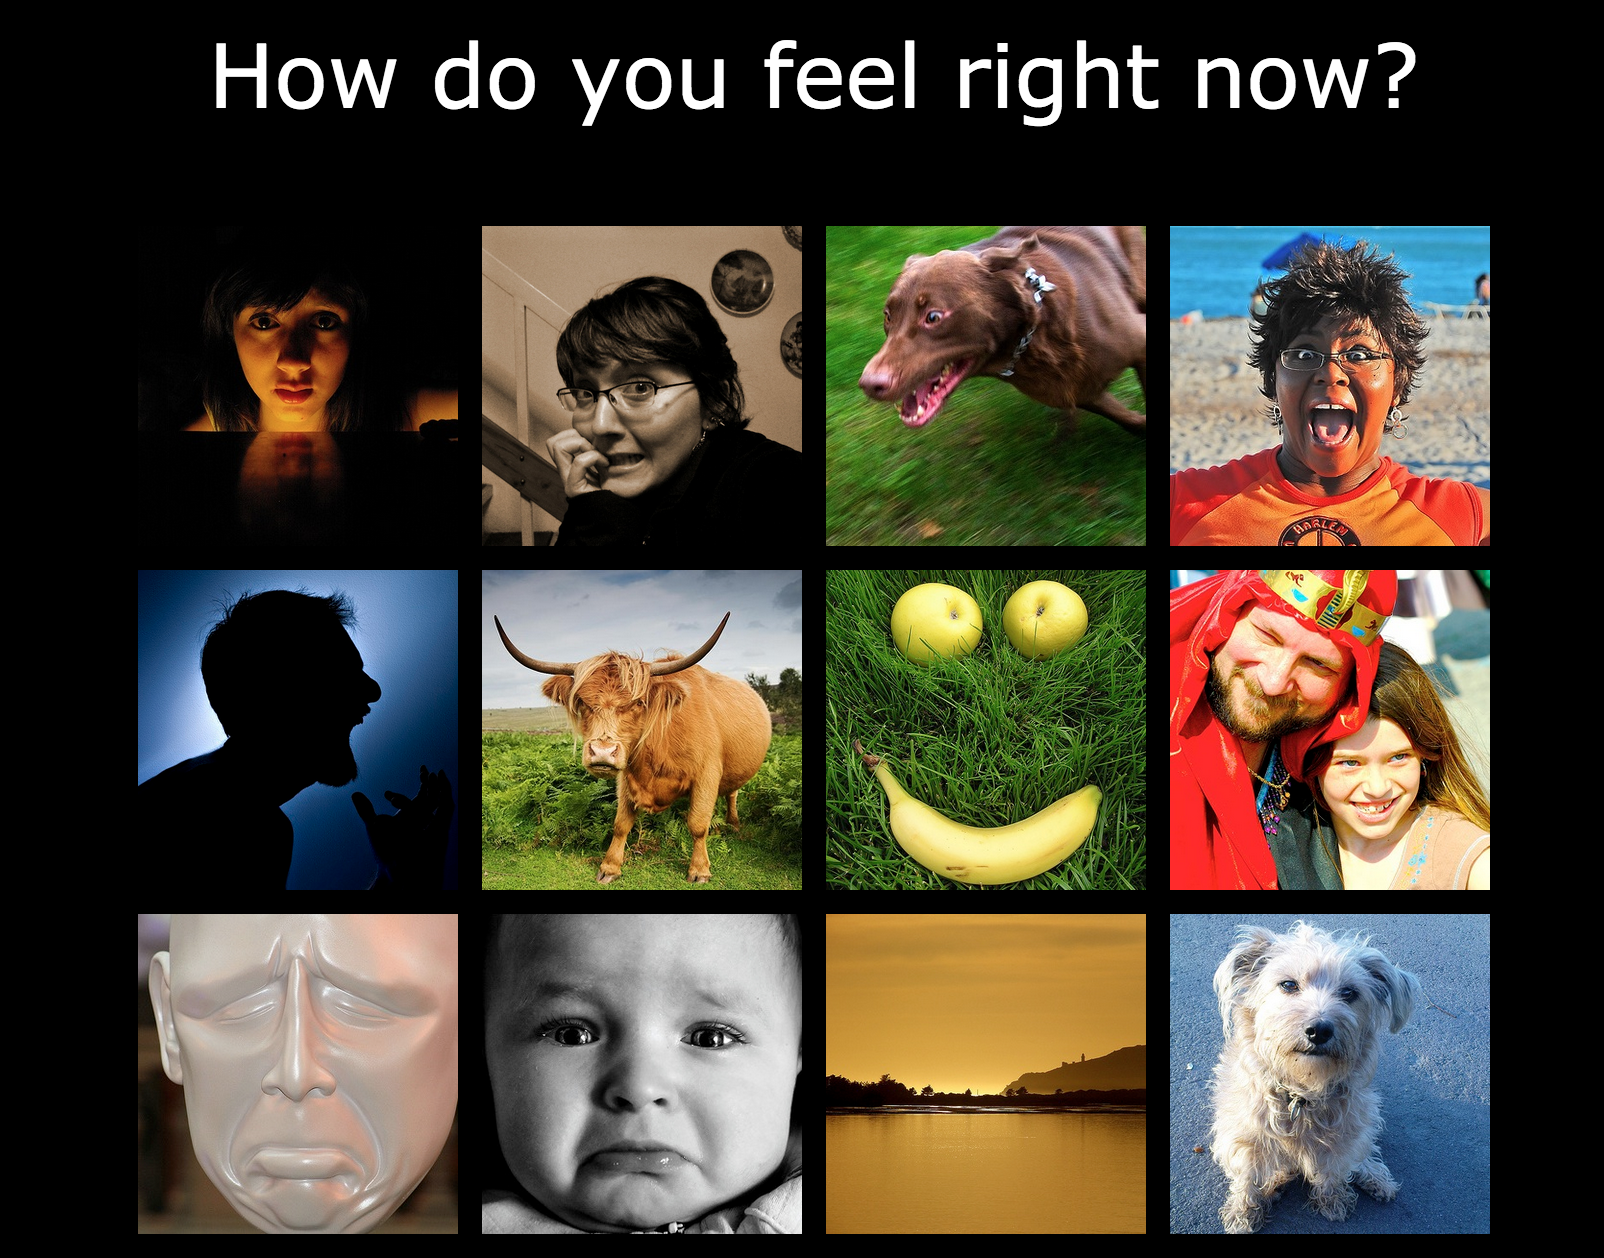
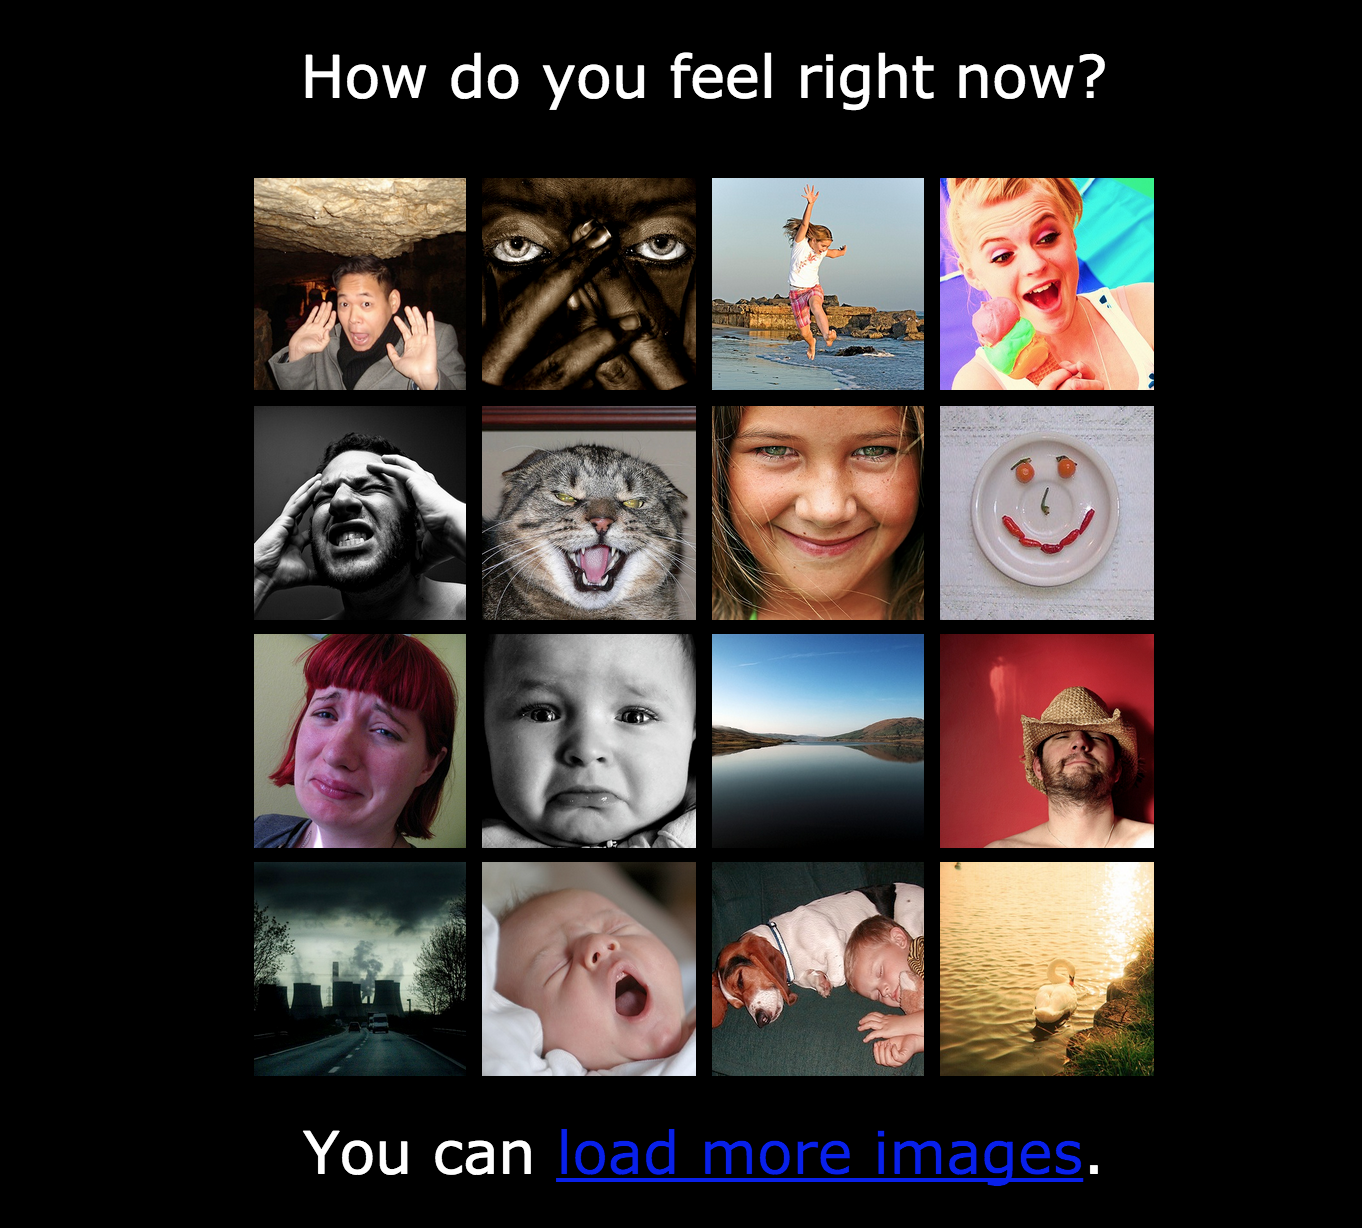
updated pam image from 12-grids to 16-grids display

diff --git a/latex_paper_report/ML_final_paper.tex b/latex_paper_report/ML_final_paper.tex
@@ -104,7 +104,7 @@ The work involves two major components: the data logging process done in-situ --
 \subsection{Experience Sampling of Computer Activities}
 Experience Samping Method (ESM) involves continuously logging computer activities while periodically collecting user responses to self-reports of their level of stress \cite{hektner2007experience}. Stress states were measured using Photographic Affect Meter (PAM) \cite{pollak2011pam}and three-question likert-scale survey. 
 
-Figure \ref{pam} shows the PAM survey. During periodic interval---we arbitrarily select 30 minutes interval---a webpage automatically opens up and a user is asked \textit{``How do you feel right now?''} Then the user selects one of 16 grid pictures that reflects their internal emotional state. 
+Figure \ref{pam} shows the PAM survey. During periodic interval---we arbitrarily select 30 minutes interval---a webpage automatically opens up and a user is asked \textit{``How do you feel right now?''} Then the user selects one of 16 grid pictures that reflects their internal emotional state. Each grid represents each of 16 emotions and there are 3 possible images that could be displayed per grid.  On clicking \textit{You can load more images button}, some of the grid images change.
 
 Figure \ref{ema} shows a self-report questionnaire. After selecting a picture in PAM, a 3-question survey page opens up where the user gets to pick one response out of five categories. 
 
